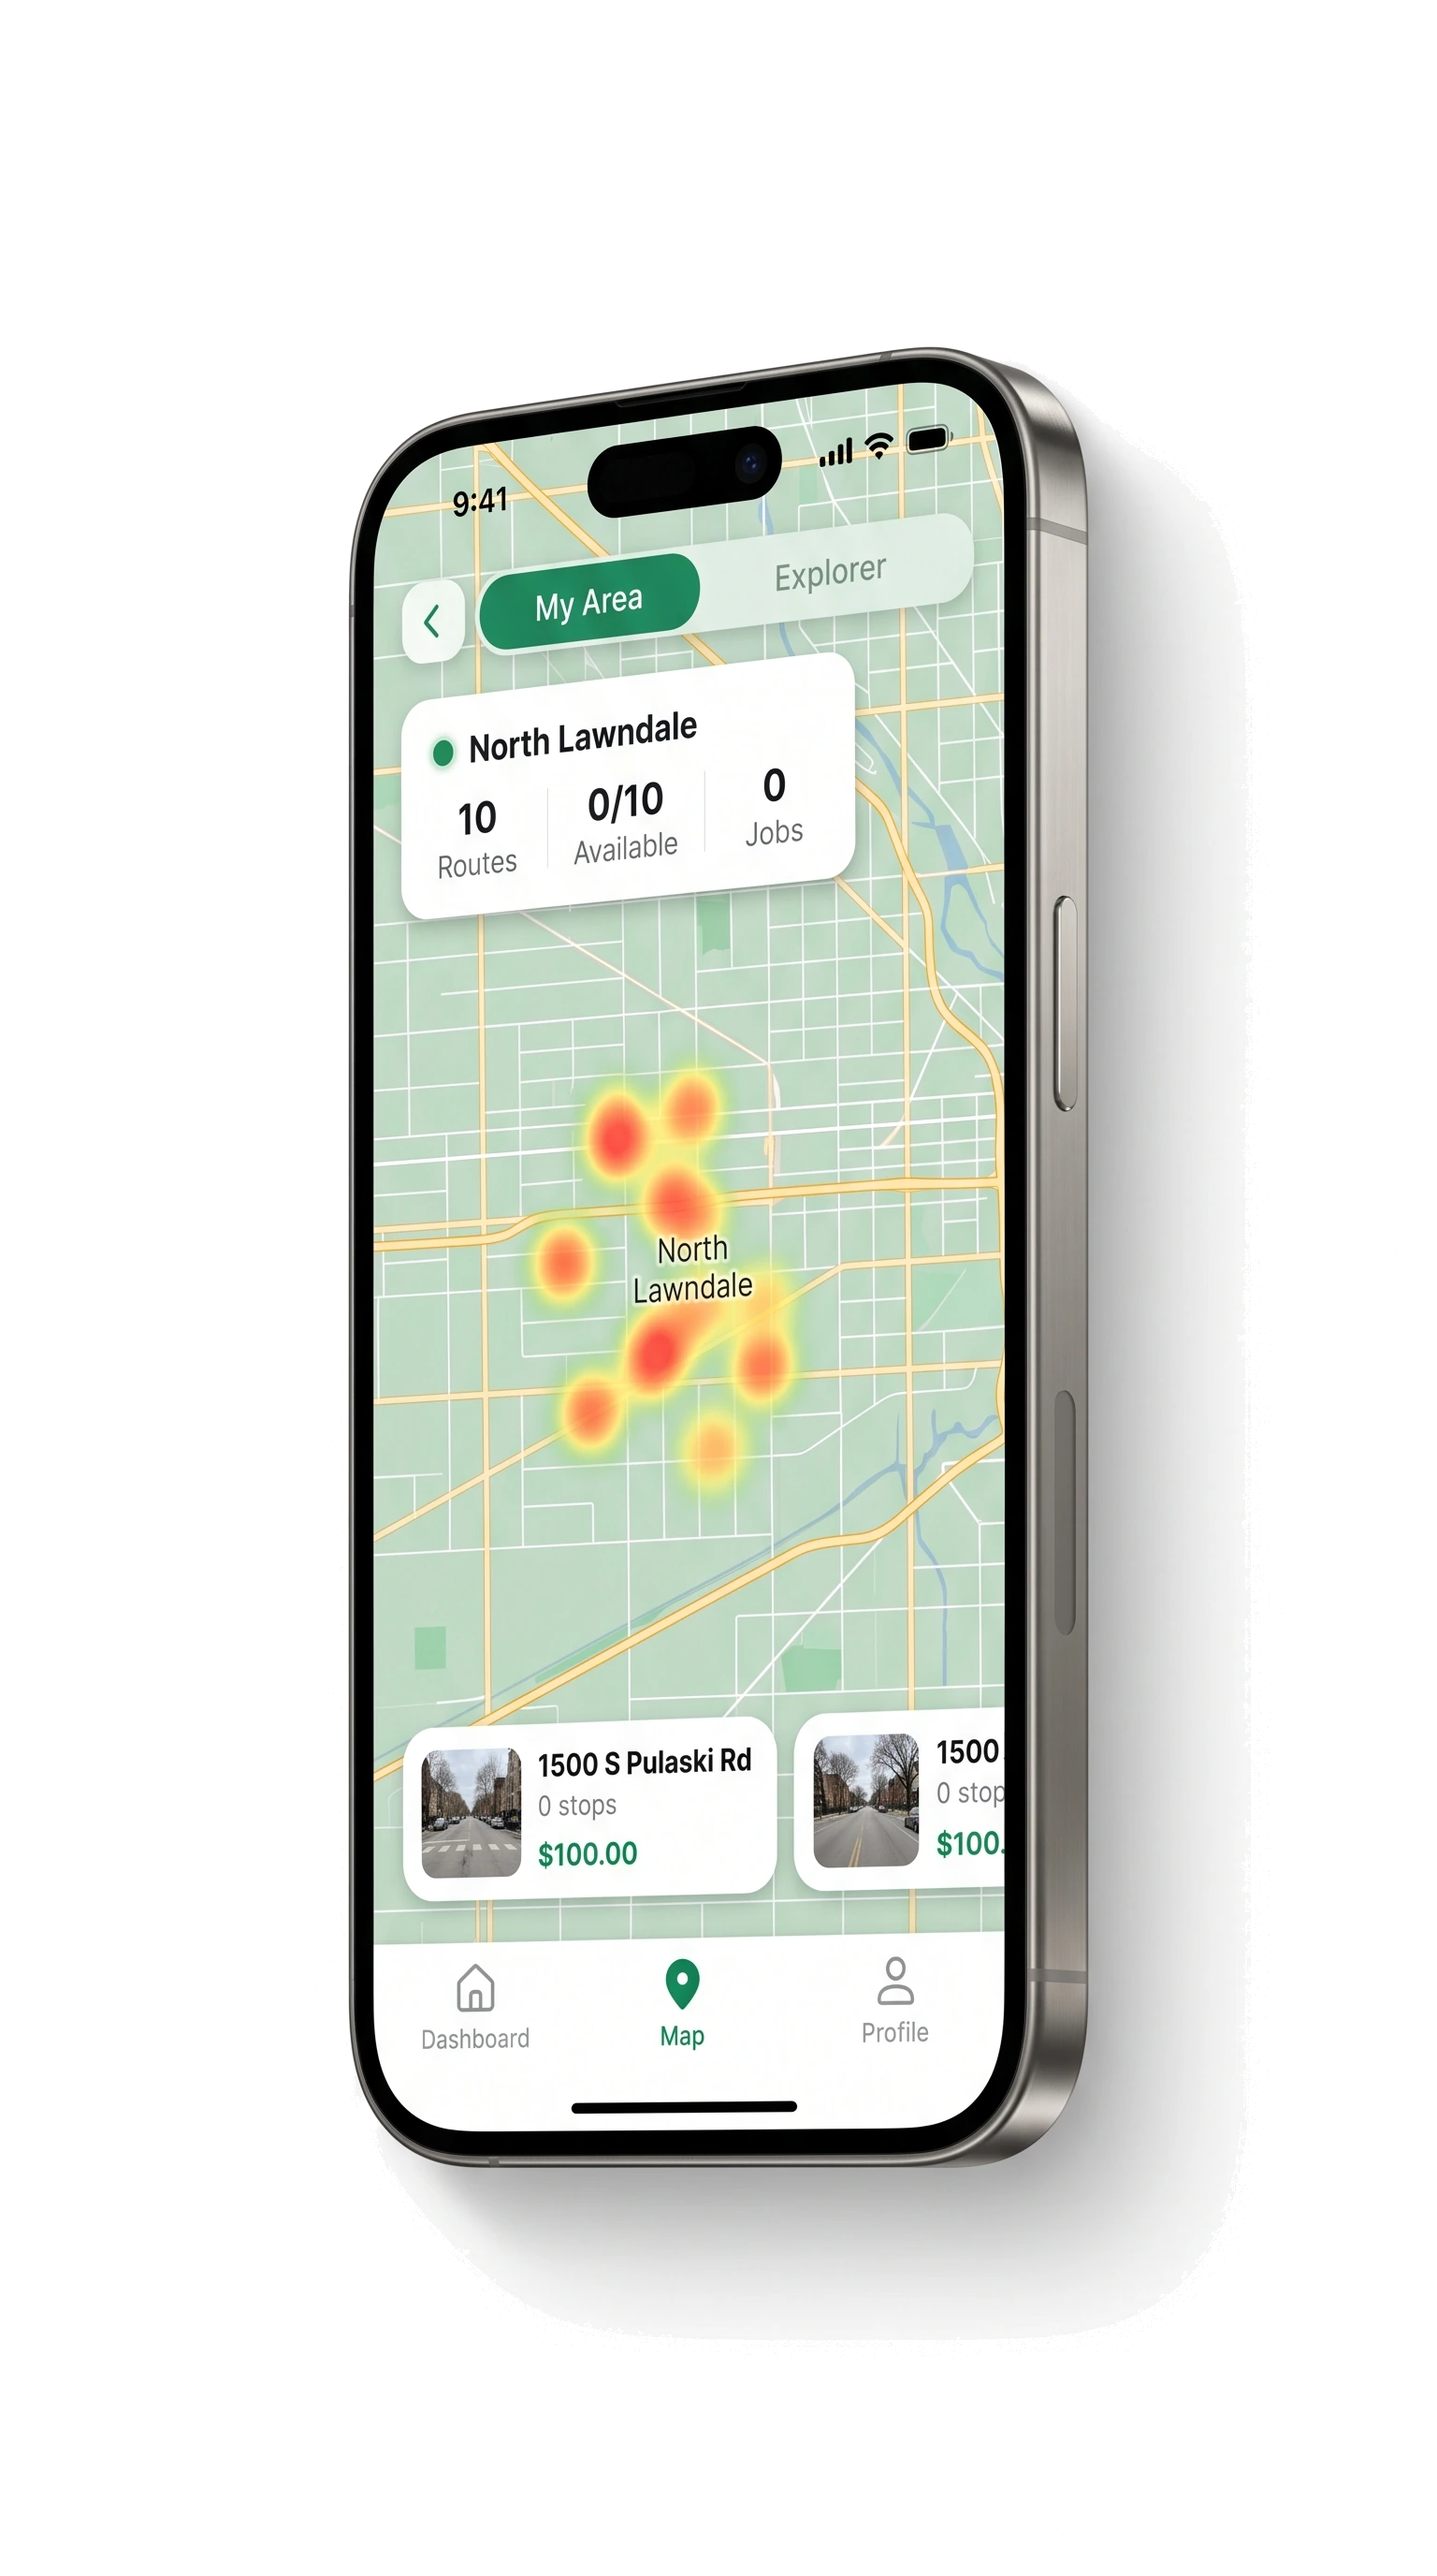
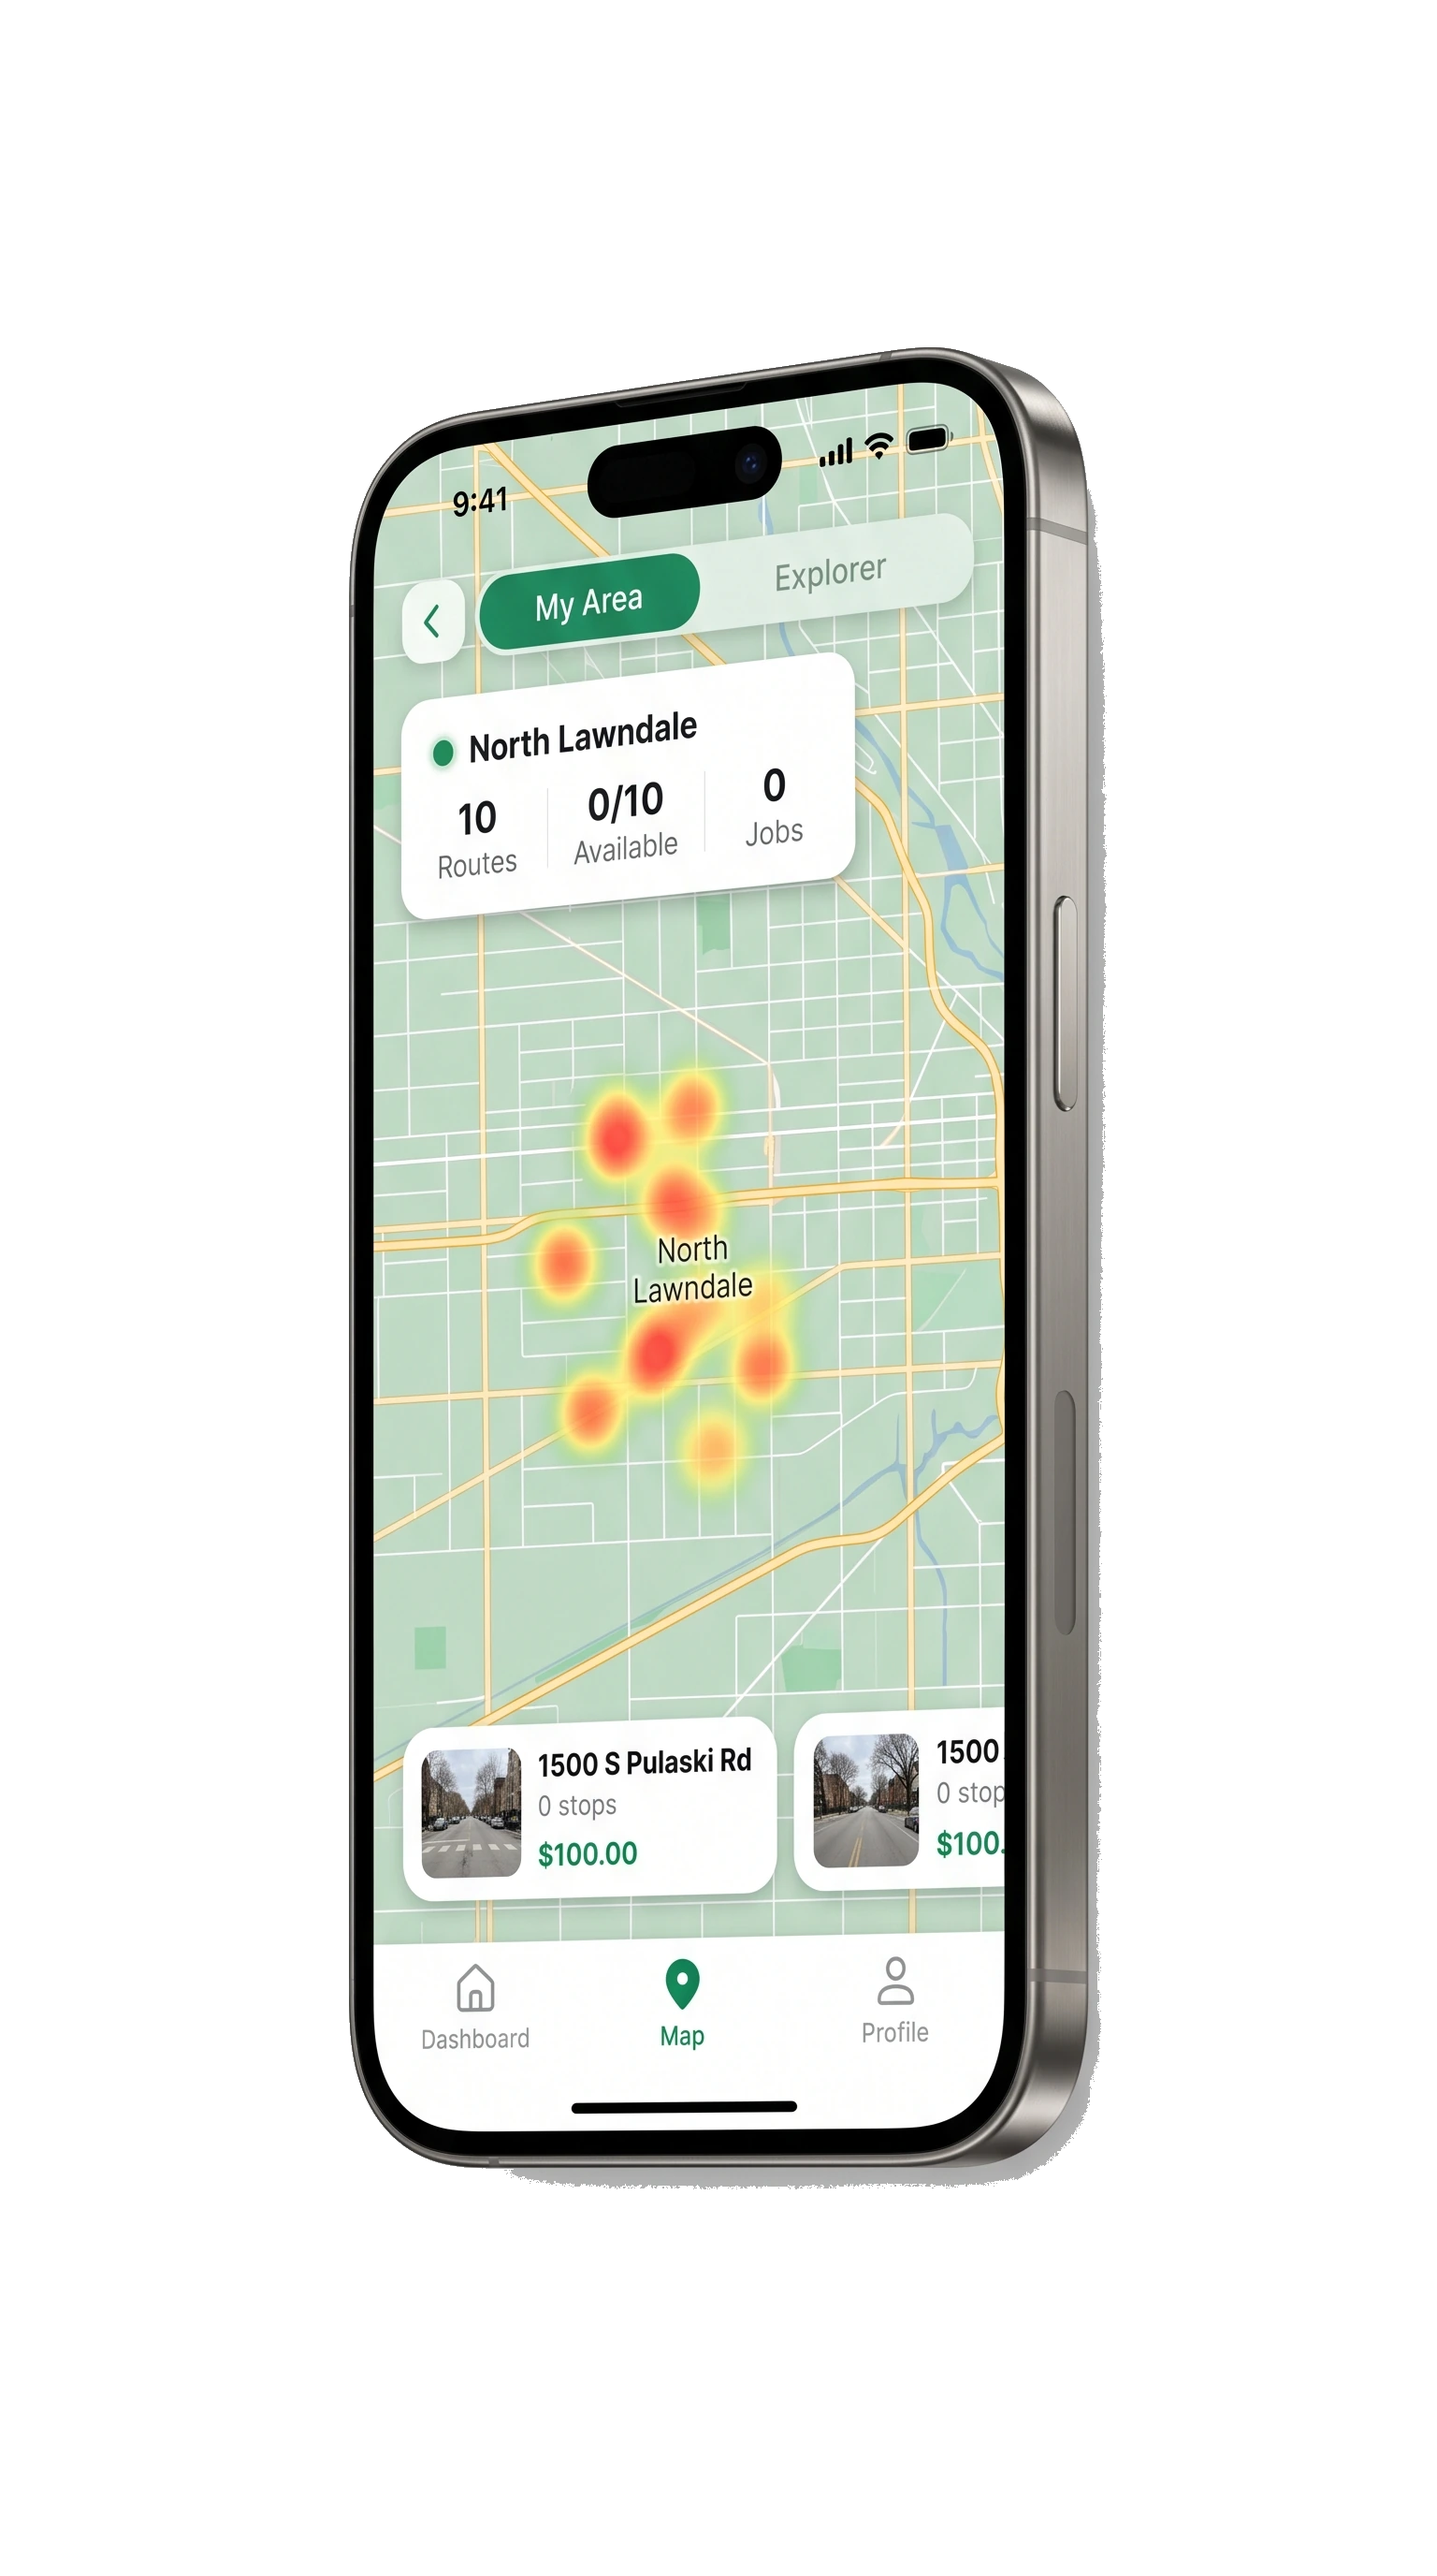
Hero: fix grey shadow smudge on phone mockup, size it up
The generated phone mockup had a soft shadow gradient baked into its
RGB pixels (tuned to look good on a plain white studio background).
The earlier corner flood-fill removal only caught part of that
gradient, leaving a visible grey smudge once composited over the busy
hero photo instead of the clean white it was designed for.

Fixed by widening the flood-fill tolerance (thresh 220 vs the earlier
18) so it fully clears the shadow gradient while still only affecting
pixels connected to the outer background — verified the white UI
cards inside the phone screen stay intact (they're not contiguous
with the exterior region, so a wide tolerance is safe there).

Also sized the phone up (~27% wider, w-[min(380px,44vh)] vs
w-[min(300px,36vh)]) per feedback that it read too small, and swapped
the flat drop-shadow-2xl utility for a slightly larger/darker
arbitrary drop-shadow that now reads as the phone's only shadow
(previously it was stacking on top of the baked-in one).

Changed region(s): [[0.3125, 0.1562, 0.8438, 0.9062], [0.2812, 0.8125, 0.3125, 0.8438]]

diff --git a/site/src/components/landing/HeroSection.tsx b/site/src/components/landing/HeroSection.tsx
@@ -232,16 +232,16 @@ export function HeroSection() {
   )
 }
 
-/** Floating device mockup of the GCC app's map/heatmap screen (North Lawndale) — angled iPhone render with its own shadow and transparent background. */
+/** Floating device mockup of the GCC app's map/heatmap screen (North Lawndale) — angled iPhone render, background/baked-in shadow fully stripped so it composites cleanly with a real CSS shadow. */
 function PhoneMockup() {
   return (
-    <div className="relative w-[min(300px,36vh)] aspect-[1536/2752]">
+    <div className="relative w-[min(380px,44vh)] aspect-[1536/2752]">
       <Image
         src="/images/optimized/hero-app-phone-mockup.webp"
         alt="The GCC app's live map showing the North Lawndale cleanliness heatmap and open block routes"
         fill
-        className="object-contain drop-shadow-2xl"
-        sizes="(min-width: 1280px) 320px, 300px"
+        className="object-contain drop-shadow-[0_30px_45px_rgba(0,0,0,0.5)]"
+        sizes="(min-width: 1280px) 400px, 380px"
         priority
       />
     </div>
